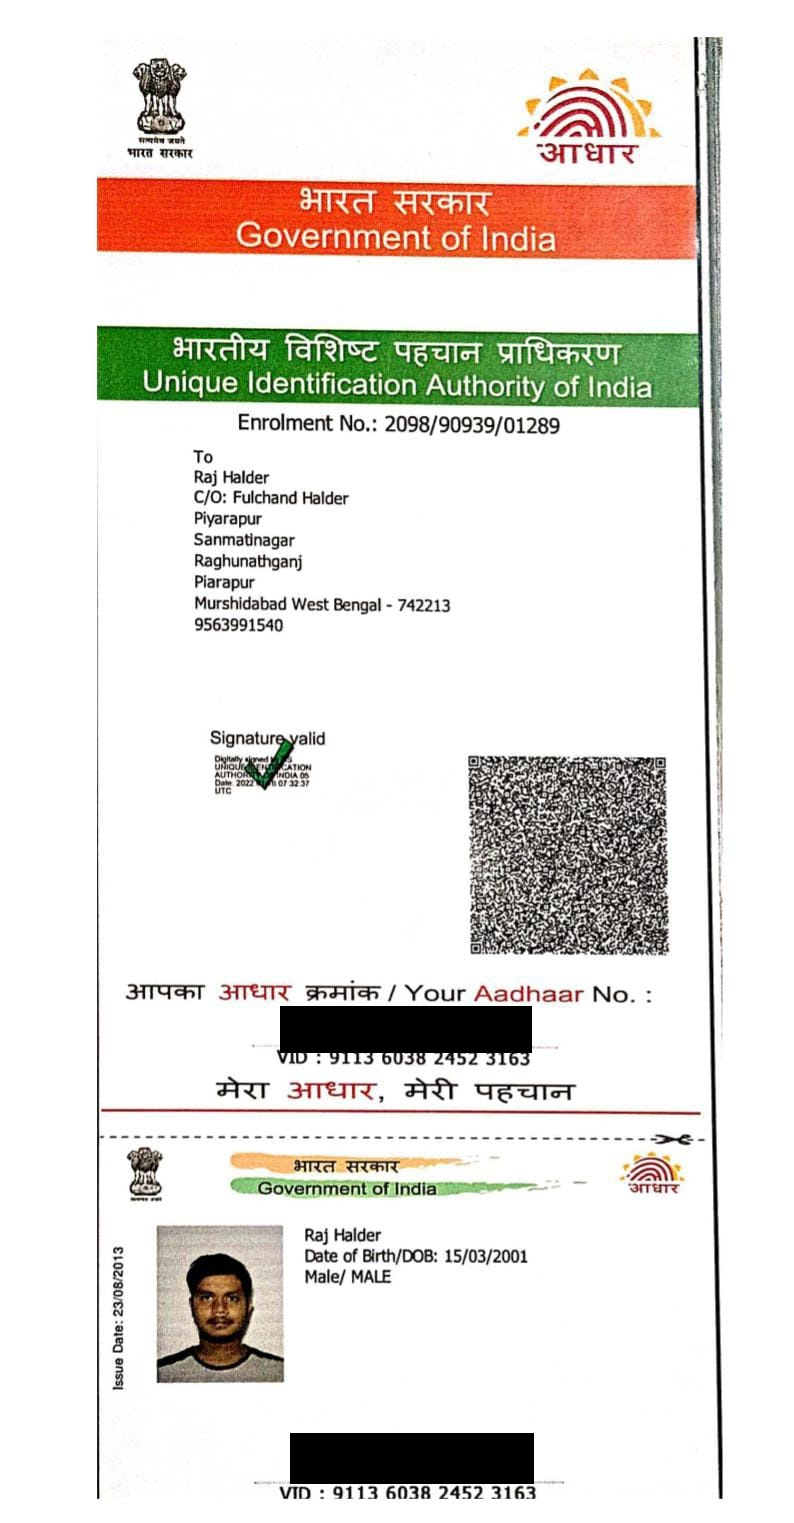
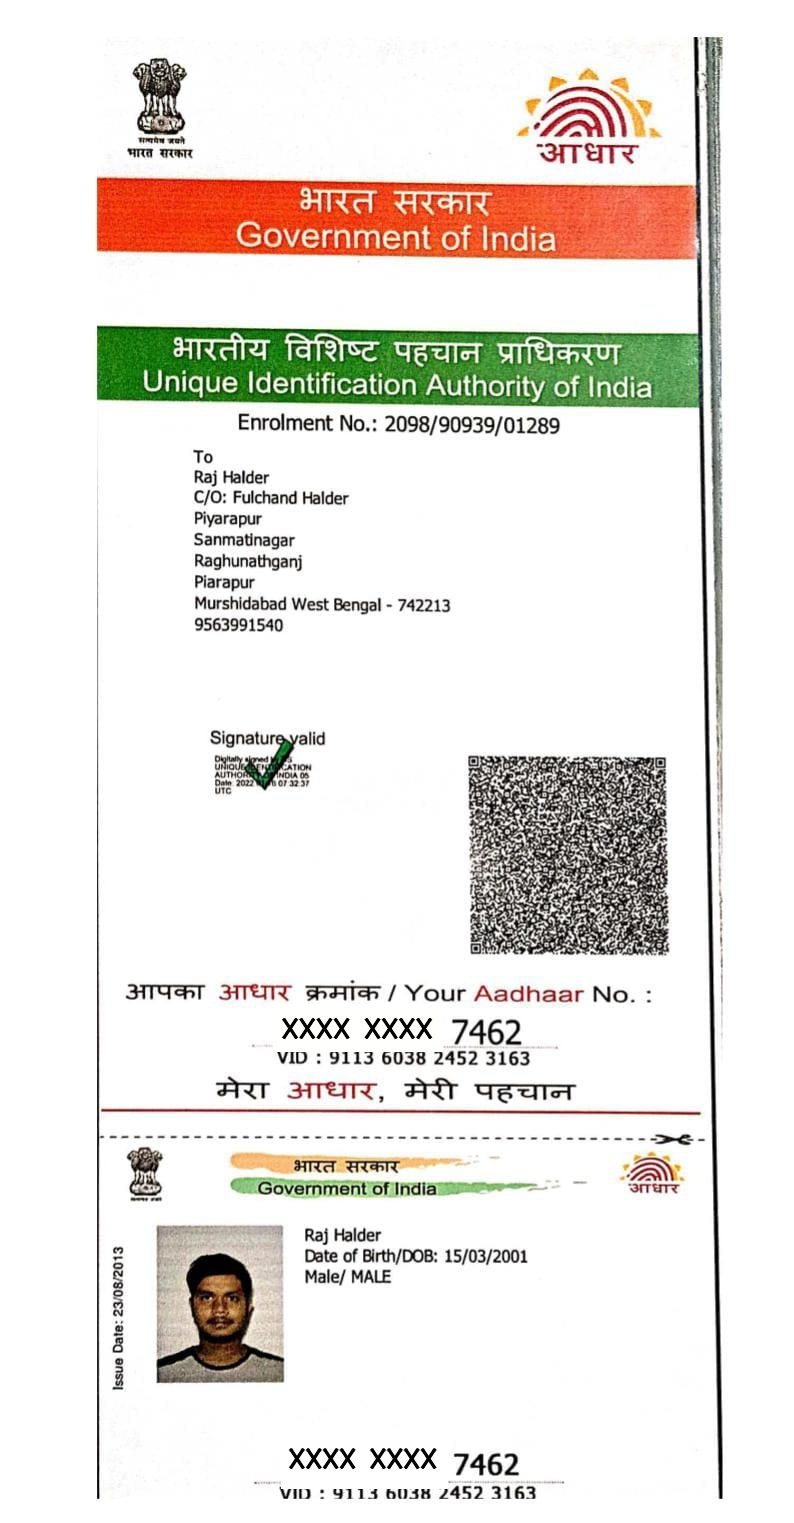
position-fix-algo

Changed region(s): [[0.3627, 0.9258, 0.6952, 0.9875], [0.3325, 0.6481, 0.665, 0.7098]]

diff --git a/backend/main.py b/backend/main.py
@@ -4,6 +4,7 @@ from fastapi.middleware.cors import CORSMiddleware
 import shutil
 import os
 import cv2
+import numpy as np
 from ultralytics import YOLO
 
 app = FastAPI()
@@ -30,22 +31,66 @@ model = YOLO("MIXED_AADHAR_NO_DETECT.pt")
 def home():
     return {"message": "Aadhar Masking API Running"}
 
+@app.post("/mask")
 @app.post("/mask/")
 async def mask_image(file: UploadFile = File(...)):
-    input_path = os.path.join(UPLOAD_FOLDER, file.filename)
+    # Read file directly into memory to avoid slow disk I/O
+    contents = await file.read()
+    nparr = np.frombuffer(contents, np.uint8)
+    img = cv2.imdecode(nparr, cv2.IMREAD_COLOR)
 
-    with open(input_path, "wb") as buffer:
-        shutil.copyfileobj(file.file, buffer)
-
-    img = cv2.imread(input_path)
-    results = model(img)
+    # Use imgsz=320 and turn off logging for much faster inference
+    results = model.predict(img, imgsz=320, conf=0.3, verbose=False)
 
     for result in results:
         for box in result.boxes:
             x1, y1, x2, y2 = map(int, box.xyxy[0])
-            cv2.rectangle(img, (x1, y1), (x2, y2), (0, 0, 0), -1)
+            # For 8 digits out of 12, the mask x2 should be ~ 65% across the box
+            mask_x2 = x1 + int((x2 - x1) * 0.65)
+            
+            # Text parameters for the Mask
+            text = "XXXX XXXX"
+            
+            # Find the size of the text at scale 1.0 to calculate ratio
+            (base_w, base_h), _ = cv2.getTextSize(text, cv2.FONT_HERSHEY_SIMPLEX, 1.0, 1)
+            
+            # Calculate the exact width available for these 8 digits (with a tiny margin)
+            available_width = (mask_x2 - x1) * 0.90
+            
+            # Scale the text so it exactly fits the exact width of the original 8 numbers
+            font_scale = available_width / base_w
+            thickness = max(1, int(font_scale * 2.5))
+            
+            # Get final text dimensions based on exact scale
+            (text_width, text_height), baseline = cv2.getTextSize(text, cv2.FONT_HERSHEY_SIMPLEX, font_scale, thickness)
+            
+            # --- Dynamic Background Blending ---
+            # Sample the background color from just above the bounding box (offset by 5 pixels)
+            # to make the mask blend perfectly into the natural paper color of the card.
+            sample_y = max(0, y1 - 5)
+            sample_x = x1 + int((mask_x2 - x1) / 2)
+            bg_color = img[sample_y, sample_x].tolist() # Returns [B, G, R]
+            
+            # Draw the rectangle using the sampled background color instead of pure white
+            cv2.rectangle(img, (x1, y1), (mask_x2, y2), bg_color, -1)
+            
+            # Fine-tune the horizontal position so it perfectly fills the left 65% width
+            text_x = x1 + max(0, int(((mask_x2 - x1) - text_width) / 2))
+            # Vertically center by using baseline
+            text_y = y1 + int(((y2 - y1) + text_height) / 2)
+            
+            cv2.putText(img, text, (text_x, text_y), cv2.FONT_HERSHEY_SIMPLEX, font_scale, (0, 0, 0), thickness, cv2.LINE_AA)
 
     output_path = os.path.join(OUTPUT_FOLDER, "masked_" + file.filename)
     cv2.imwrite(output_path, img)
 
-    return FileResponse(output_path, media_type="image/png", filename="masked_" + file.filename)
+    return FileResponse(
+        output_path, 
+        media_type="image/png", 
+        filename="masked_" + file.filename,
+        headers={
+            "Cache-Control": "no-cache, no-store, must-revalidate",
+            "Pragma": "no-cache",
+            "Expires": "0",
+        }
+    )
